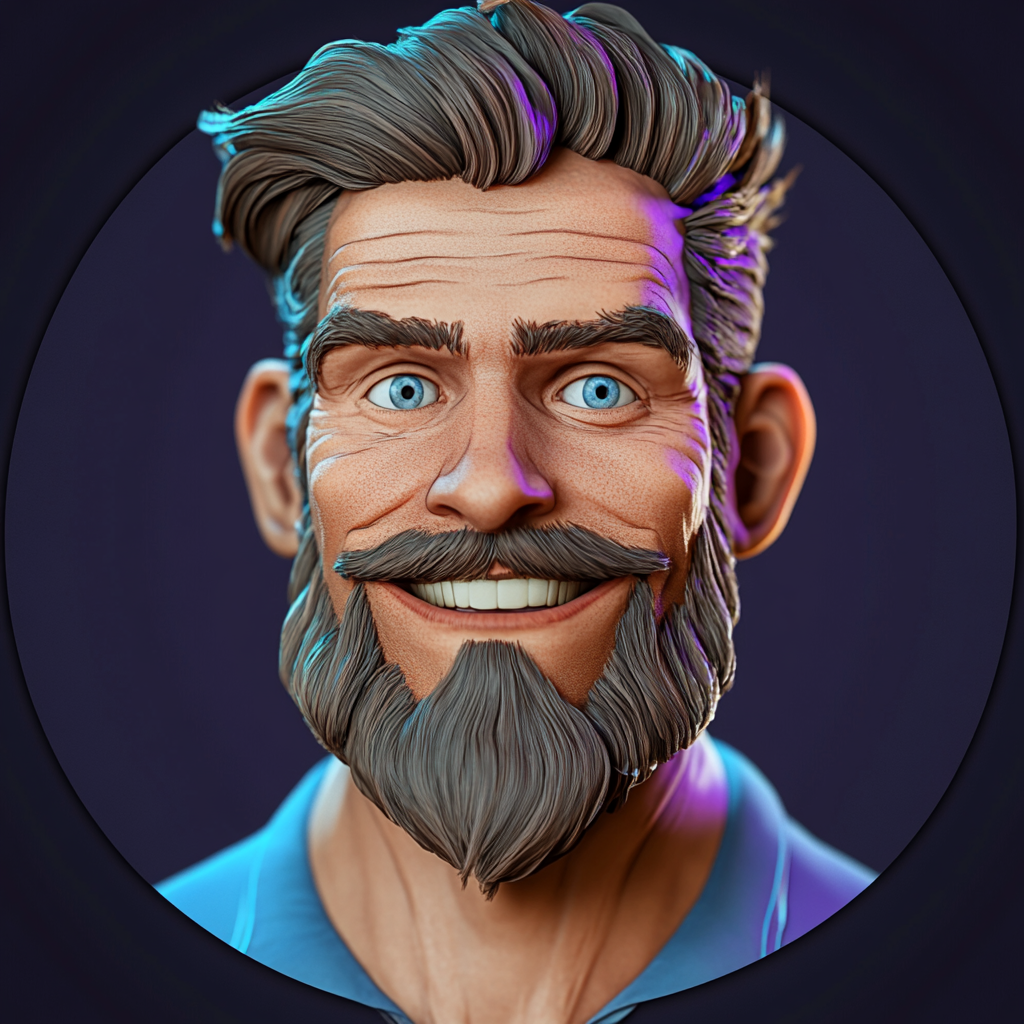
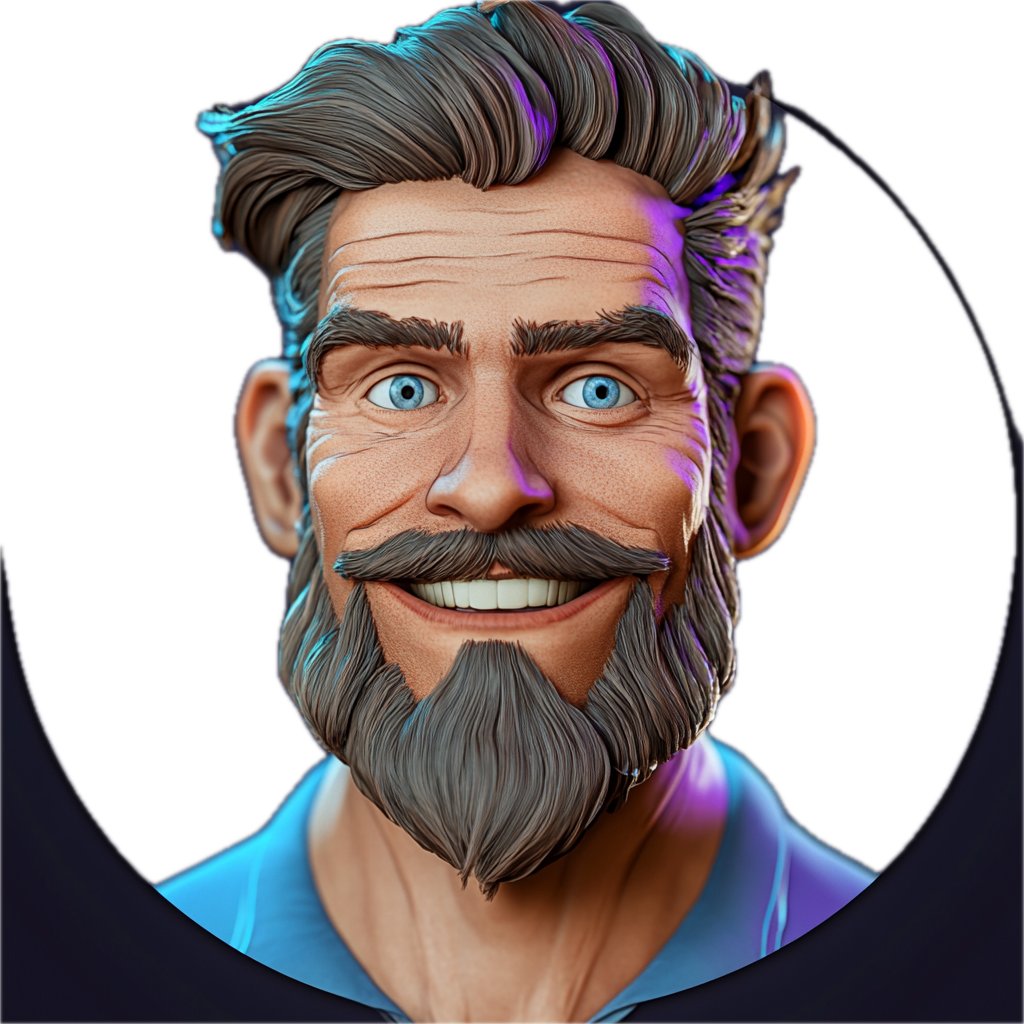
Vylepšení webu: 1) Oprava rozostření - popup zůstává ostrý, 2) Optimalizace JavaScriptu kalkulačky - robustnější výpočty a lepší error handling

diff --git a/index.html b/index.html
@@ -20,6 +20,7 @@
         }
         input[type="number"] {
             -moz-appearance: textfield;
+            appearance: textfield; /* Standardní vlastnost pro lepší kompatibilitu */
         }
         .fade-in-up {
             opacity: 0;
@@ -35,7 +36,89 @@
         }
     </style>
 </head>
-<body class="bg-white">
+<body class="bg-white" x-data="{ showModal: true, isLandlord: null, showBanner: true }" :class="{ 'overflow-hidden': showModal }">
+    <!-- Hlavní obsah stránky - aplikuje se blur efekt, když je aktivní modal -->
+    <div :class="{ 'filter blur-sm': showModal }" class="transition-all duration-300">
+    
+    <!-- Banner s upozorněním -->
+    <div x-show="showBanner && !showModal" class="bg-yellow-50 border-yellow-200 border-b p-3" 
+         x-transition:enter="transition ease-out duration-300"
+         x-transition:enter-start="transform -translate-y-full"
+         x-transition:enter-end="transform translate-y-0"
+         style="display: none;">
+        <div class="max-w-7xl mx-auto px-3 sm:px-6 lg:px-8">
+            <div class="flex items-center justify-between flex-wrap">
+                <div class="w-0 flex-1 flex items-center">
+                    <span class="flex p-2 rounded-lg bg-yellow-100">
+                        <svg class="h-5 w-5 text-yellow-600" xmlns="http://www.w3.org/2000/svg" fill="none" viewBox="0 0 24 24" stroke="currentColor">
+                            <path stroke-linecap="round" stroke-linejoin="round" stroke-width="2" d="M12 9v2m0 4h.01m-6.938 4h13.856c1.54 0 2.502-1.667 1.732-3L13.732 4c-.77-1.333-2.694-1.333-3.464 0L3.34 16c-.77 1.333.192 3 1.732 3z" />
+                        </svg>
+                    </span>
+                    <p class="ml-3 font-medium text-yellow-700 truncate">
+                        <span>Upozornění: Tento obsah je určen výhradně pro majitele nemovitostí k pronájmu. Obsah není určen pro nájemníky a není vhodný pro všeobecnou veřejnost.</span>
+                    </p>
+                </div>
+                <div class="order-2 flex-shrink-0 sm:order-3 sm:ml-3">
+                    <button type="button" class="-mr-1 flex p-2 rounded-md hover:bg-yellow-100 focus:outline-none focus:ring-2 focus:ring-yellow-500" @click="showBanner = false">
+                        <span class="sr-only">Zavřít</span>
+                        <svg class="h-5 w-5 text-yellow-600" xmlns="http://www.w3.org/2000/svg" fill="none" viewBox="0 0 24 24" stroke="currentColor">
+                            <path stroke-linecap="round" stroke-linejoin="round" stroke-width="2" d="M6 18L18 6M6 6l12 12" />
+                        </svg>
+                    </button>
+                </div>
+            </div>
+        </div>
+    </div>
+    </div><!-- Konec obsahu, který má být rozostřený -->
+    
+    <!-- Popup pro pronajímatele - MIMO div s blur efektem -->
+    <div x-show="showModal" class="fixed inset-0 z-50 overflow-y-auto" aria-labelledby="modal-title" role="dialog" aria-modal="true" style="display: none;">
+    <!-- Overlay s větším ztemněním -->
+    <div class="fixed inset-0 bg-black bg-opacity-80 backdrop-blur-sm transition-opacity"></div>
+        <div class="flex items-center justify-center min-h-screen pt-4 px-4 pb-20 text-center sm:block sm:p-0">
+
+            <span class="hidden sm:inline-block sm:align-middle sm:h-screen" aria-hidden="true">&#8203;</span>
+            <div class="relative z-10 inline-block align-bottom bg-white rounded-lg px-4 pt-5 pb-4 text-left overflow-hidden shadow-2xl transform transition-all sm:my-8 sm:align-middle sm:max-w-lg sm:w-full sm:p-6 border-2 border-yellow-400" 
+                x-transition:enter="ease-out duration-300" 
+                x-transition:enter-start="opacity-0 translate-y-4 sm:translate-y-0 sm:scale-95" 
+                x-transition:enter-end="opacity-100 translate-y-0 sm:scale-100">
+                <div>
+                    <div class="mx-auto flex items-center justify-center h-16 w-16 rounded-full bg-yellow-200 ring-4 ring-yellow-400 shadow-lg">
+                        <svg class="h-8 w-8 text-yellow-600" xmlns="http://www.w3.org/2000/svg" fill="none" viewBox="0 0 24 24" stroke="currentColor">
+                            <path stroke-linecap="round" stroke-linejoin="round" stroke-width="2" d="M12 9v2m0 4h.01m-6.938 4h13.856c1.54 0 2.502-1.667 1.732-3L13.732 4c-.77-1.333-2.694-1.333-3.464 0L3.34 16c-.77 1.333.192 3 1.732 3z" />
+                        </svg>
+                    </div>
+                    <div class="mt-3 text-center sm:mt-5">
+                        <h3 class="text-xl leading-6 font-bold text-gray-900" id="modal-title">
+                            Exkluzivita pro pronajímatele
+                        </h3>
+                        <div class="mt-2">
+                            <p class="text-sm text-gray-500">
+                                Jste majitel nemovitosti k pronájmu? Tato stránka obsahuje specializované informace určené výhradně pronajímatelům.
+                            </p>
+                            <p class="text-sm text-gray-500 mt-2">
+                                Přístup k těmto informacím je vyhrazen pouze pro pronajímatele. Pokračováním potvrzujete, že jste vlastníkem nemovitosti určené k pronájmu.
+                            </p>
+                        </div>
+                    </div>
+                </div>
+                <div class="mt-5 sm:mt-6 sm:grid sm:grid-cols-2 sm:gap-3 sm:grid-flow-row-dense">
+                    <button type="button" 
+                            class="w-full inline-flex justify-center rounded-md border border-transparent shadow-lg px-5 py-3 bg-gray-900 text-base font-bold text-white hover:bg-gray-800 focus:outline-none focus:ring-2 focus:ring-offset-2 focus:ring-gray-500 sm:col-start-2 sm:text-sm hover:scale-105 transition-transform"
+                            @click="showModal = false; isLandlord = true; localStorage.setItem('isLandlord', 'true')">
+                        ANO, jsem pronajímatel
+                    </button>
+                    <button type="button" 
+                            class="mt-3 w-full inline-flex justify-center rounded-md border border-gray-300 shadow-sm px-4 py-2 bg-white text-base font-medium text-gray-700 hover:bg-gray-50 focus:outline-none focus:ring-2 focus:ring-offset-2 focus:ring-gray-500 sm:mt-0 sm:col-start-1 sm:text-sm"
+                            @click="window.location.href = 'https://www.google.com'">
+                        NE, nejsem pronajímatel
+                    </button>
+                </div>
+            </div>
+        </div>
+    </div>
+
+    
     <!-- Navigation -->
     <nav class="bg-white/80 backdrop-blur-md fixed w-full z-50 transition-all duration-300" x-data="{ isScrolled: false, isOpen: false }" @scroll.window="isScrolled = window.pageYOffset > 20">
         <div class="max-w-7xl mx-auto px-4 sm:px-6 lg:px-8">
@@ -84,15 +167,14 @@
     <div class="relative min-h-screen overflow-hidden">
         <!-- Background Image with Overlay -->
         <div class="absolute inset-0 z-0">
-            <img src="images/hero-image.jpg" alt="Background" class="w-full h-full object-cover">
-            <div class="absolute inset-0 gradient-overlay"></div>
+            <img src="images/hero-image.jpg" alt="Background" class="w-full h-full object-cover blur-sm">
         </div>
 
         <!-- Content -->
         <div class="relative z-10 pt-32 pb-16 sm:pt-40 sm:pb-20 lg:pt-48 lg:pb-28 px-4 sm:px-6 lg:px-8">
             <div class="max-w-7xl mx-auto">
                 <div class="lg:grid lg:grid-cols-12 lg:gap-8">
-                    <div class="sm:text-center lg:text-left lg:col-span-7" x-data="{}" x-intersect="$el.querySelectorAll('.fade-in-up').forEach(el => el.classList.add('show'))">
+                    <div class="sm:text-center lg:text-left lg:col-span-7 bg-white/95 backdrop-blur-sm rounded-3xl p-8 shadow-xl" x-data="{}" x-intersect="$el.querySelectorAll('.fade-in-up').forEach(el => el.classList.add('show'))">
                         <h1 class="fade-in-up text-5xl md:text-6xl font-bold tracking-tight text-gray-900 mb-8">
                             <span class="block">Problémového nájemníka</span>
                             <span class="block mt-2 bg-gradient-to-r from-gray-800 to-gray-600 bg-clip-text text-transparent">doma mít nechcete</span>
@@ -134,7 +216,8 @@
 
 
 <!-- Kalkulačka sekce -->
-<section id="calculator" class="py-24 bg-gray-50" x-data="{ hourlyRate: 300, monthlyRent: 15000 }">
+<section id="calculator" class="py-24 bg-gray-50" x-data="calculatorData()">
+    <!-- Přidán () pro správné volání funkce Alpine.data -->
     <div class="max-w-7xl mx-auto px-4 sm:px-6 lg:px-8">
         <div class="flex items-center justify-center mb-16 space-x-8">
             <img class="h-28 w-28 rounded-full shadow-lg object-cover" src="images/logo.png" alt="Logo">
@@ -564,27 +647,53 @@
 
 <script type="module">
     import calculator from './js/calculator.js';
-
-    // Inicializace kalkulačky
-    function initCalculator() {
-        const hourlyRateInput = document.querySelector('input[x-model="hourlyRate"]');
-        const monthlyRentInput = document.querySelector('input[x-model="monthlyRent"]');
-
-        function updateCalculations() {
-            calculator.baseParams.hourlyRate = parseFloat(hourlyRateInput.value) || 0;
-            calculator.baseParams.monthlyRent = parseFloat(monthlyRentInput.value) || 0;
-            calculator.updateUI();
+    
+    // Inicializace Alpine.js dat pro kalkulačku
+    document.addEventListener('alpine:init', () => {
+        Alpine.data('calculatorData', () => ({
+            hourlyRate: calculator.baseParams.hourlyRate,
+            monthlyRent: calculator.baseParams.monthlyRent,
+            
+            init() {
+                // Sledování změn v Alpine.js proměnných
+                this.$watch('hourlyRate', (value) => {
+                    calculator.setParams(parseFloat(value) || 0, this.monthlyRent);
+                });
+                
+                this.$watch('monthlyRent', (value) => {
+                    calculator.setParams(this.hourlyRate, parseFloat(value) || 0);
+                });
+                
+                // Inicializace s výchozími hodnotami
+                setTimeout(() => {
+                    calculator.updateUI();
+                    console.log('Kalkulačka inicializována');
+                }, 100);
+            }
+        }));
+    });
+    
+    // Přímá inicializace pro případ, že Alpine ještě není inicializovaný
+    window.addEventListener('DOMContentLoaded', () => {
+        try {
+            console.log('DOM načten, inicializuji kalkulačku...');
+            // Kontrola, zda jsou elementy k dispozici
+            if (document.getElementById('totalCosts')) {
+                calculator.updateUI();
+                console.log('Kalkulačka inicializována z DOMContentLoaded');
+            } else {
+                console.error('Elementy pro kalkulačku nejsou v DOM');
+            }
+        } catch (error) {
+            console.error('Chyba při inicializaci kalkulačky:', error);
         }
 
-        hourlyRateInput.addEventListener('input', updateCalculations);
-        monthlyRentInput.addEventListener('input', updateCalculations);
-
-        // Inicializace s výchozími hodnotami
-        updateCalculations();
-    }
-
-    // Spuštění po načtení stránky
-    document.addEventListener('DOMContentLoaded', initCalculator);
+        // Kontrola, zda už uživatel potvrdil, že je pronajímatel
+        const isLandlord = localStorage.getItem('isLandlord');
+        if (isLandlord === 'true') {
+            document.body.setAttribute('x-data', '{ showModal: false, isLandlord: true, showBanner: true }');
+        }
+    });
 </script>
 
 

diff --git a/js/calculator.js b/js/calculator.js
@@ -2,9 +2,19 @@
 const calculator = {
     // Základní parametry
     baseParams: {
-        hourlyRate: 0,
-        monthlyRent: 0,
+        hourlyRate: 300, // výchozí hodnota
+        monthlyRent: 15000, // výchozí hodnota
         location: 'praha' // praha, brno, ostatni
+    },
+    
+    // Nastavení parametrů kalkulačky
+    setParams(hourlyRate, monthlyRent) {
+        // Kontrola vstupních hodnot
+        this.baseParams.hourlyRate = parseFloat(hourlyRate) || 300;
+        this.baseParams.monthlyRent = parseFloat(monthlyRent) || 15000;
+        
+        console.log(`Nastaveny parametry: hourlyRate=${this.baseParams.hourlyRate}, monthlyRent=${this.baseParams.monthlyRent}`);
+        this.updateUI();
     },
 
     // Časové náklady (v hodinách)
@@ -41,59 +51,134 @@ const calculator = {
 
     // Výpočet celkových nákladů
     calculateTotalCosts() {
-        const hourlyRate = this.baseParams.hourlyRate;
-        const monthlyRent = this.baseParams.monthlyRent;
+        try {
+            console.log('Začátek výpočtu celkových nákladů');
+            
+            // Převod na čísla a ošetření neplatných hodnot
+            const hourlyRate = parseFloat(this.baseParams.hourlyRate) || 300;
+            const monthlyRent = parseFloat(this.baseParams.monthlyRent) || 15000;
 
-        // Výpočet časových nákladů
-        let totalTimeHours = 0;
-        Object.values(this.timeSpent).forEach(category => {
-            Object.values(category).forEach(item => {
-                totalTimeHours += (item.min + item.max) / 2;
+            console.log(`Hodnoty pro výpočet: hourlyRate=${hourlyRate}, monthlyRent=${monthlyRent}`);
+
+            // Výpočet časových nákladů
+            let totalTimeHours = 0;
+            Object.values(this.timeSpent).forEach(category => {
+                Object.values(category).forEach(item => {
+                    totalTimeHours += (item.min + item.max) / 2;
+                });
             });
-        });
-        const timeCosts = totalTimeHours * hourlyRate;
+            const timeCosts = totalTimeHours * hourlyRate;
 
-        // Výpočet fixních nákladů
-        let totalFixedCosts = 0;
-        Object.values(this.fixedCosts).forEach(category => {
-            Object.values(category).forEach(item => {
-                totalFixedCosts += (item.min + item.max) / 2;
+            // Výpočet fixních nákladů
+            let totalFixedCosts = 0;
+            Object.values(this.fixedCosts).forEach(category => {
+                Object.values(category).forEach(item => {
+                    totalFixedCosts += (item.min + item.max) / 2;
+                });
             });
-        });
 
-        // Ušlý zisk z nájmu (3 měsíce neplacení + 2 měsíce řešení situace)
-        const lostRent = monthlyRent * 5;
+            // Ušlý zisk z nájmu (3 měsíce neplacení + 2 měsíce řešení situace)
+            const lostRent = monthlyRent * 5;
 
-        // Celkové náklady
-        return {
-            timeCosts,
-            fixedCosts: totalFixedCosts,
-            lostRent,
-            total: timeCosts + totalFixedCosts + lostRent,
-            timeSpent: totalTimeHours
-        };
+            // Celkové náklady
+            const results = {
+                timeCosts: Math.round(timeCosts),
+                fixedCosts: Math.round(totalFixedCosts),
+                lostRent: Math.round(lostRent),
+                total: Math.round(timeCosts + totalFixedCosts + lostRent),
+                timeSpent: totalTimeHours
+            };
+            
+            console.log('Výsledky výpočtu:', results);
+            return results;
+        } catch (error) {
+            console.error('Chyba při výpočtu celkových nákladů:', error);
+            return {
+                timeCosts: 0,
+                fixedCosts: 0,
+                lostRent: 0,
+                total: 0,
+                timeSpent: 0
+            };
+        }
     },
 
     // Formátování částky
     formatCurrency(amount) {
-        return new Intl.NumberFormat('cs-CZ', {
-            style: 'currency',
-            currency: 'CZK',
-            minimumFractionDigits: 0,
-            maximumFractionDigits: 0
-        }).format(amount);
+        try {
+            // Zajistíme, že amount je číslo
+            const numAmount = parseFloat(amount) || 0;
+            return new Intl.NumberFormat('cs-CZ', {
+                style: 'currency',
+                currency: 'CZK',
+                minimumFractionDigits: 0,
+                maximumFractionDigits: 0
+            }).format(numAmount);
+        } catch (error) {
+            console.error('Chyba při formátování částky:', error);
+            return '0 Kč';
+        }
     },
 
     // Aktualizace UI
     updateUI() {
-        const results = this.calculateTotalCosts();
-        
-        // Aktualizace výsledků v UI
-        document.getElementById('totalCosts').textContent = this.formatCurrency(results.total);
-        document.getElementById('timeCosts').textContent = this.formatCurrency(results.timeCosts);
-        document.getElementById('fixedCosts').textContent = this.formatCurrency(results.fixedCosts);
-        document.getElementById('lostRent').textContent = this.formatCurrency(results.lostRent);
-        document.getElementById('timeSpent').textContent = `${Math.round(results.timeSpent)} hodin`;
+        try {
+            console.log('Začátek aktualizace UI...');
+            const results = this.calculateTotalCosts();
+            
+            // Kontrola existence elementů před aktualizací
+            const elements = {
+                totalCosts: document.getElementById('totalCosts'),
+                timeCosts: document.getElementById('timeCosts'),
+                fixedCosts: document.getElementById('fixedCosts'),
+                lostRent: document.getElementById('lostRent'),
+                timeSpent: document.getElementById('timeSpent')
+            };
+            
+            // Kontrola dostupnosti všech elementů
+            const missingElements = Object.entries(elements).filter(([key, el]) => !el);
+            if (missingElements.length > 0) {
+                console.error('Chybějící elementy v DOM:', missingElements.map(([key]) => key));
+                return false;
+            }
+            
+            // Bezpečná aktualizace výsledků v UI s ošetřením chyb
+            try {
+                elements.totalCosts.textContent = this.formatCurrency(results.total);
+            } catch (e) {
+                console.error('Chyba při aktualizaci totalCosts:', e);
+            }
+            
+            try {
+                elements.timeCosts.textContent = this.formatCurrency(results.timeCosts);
+            } catch (e) {
+                console.error('Chyba při aktualizaci timeCosts:', e);
+            }
+            
+            try {
+                elements.fixedCosts.textContent = this.formatCurrency(results.fixedCosts);
+            } catch (e) {
+                console.error('Chyba při aktualizaci fixedCosts:', e);
+            }
+            
+            try {
+                elements.lostRent.textContent = this.formatCurrency(results.lostRent);
+            } catch (e) {
+                console.error('Chyba při aktualizaci lostRent:', e);
+            }
+            
+            try {
+                elements.timeSpent.textContent = `${Math.round(results.timeSpent)} hodin`;
+            } catch (e) {
+                console.error('Chyba při aktualizaci timeSpent:', e);
+            }
+            
+            console.log('UI kalkulačky úspěšně aktualizováno');
+            return true;
+        } catch (error) {
+            console.error('Chyba při aktualizaci UI kalkulačky:', error);
+            return false;
+        }
     }
 };
 
